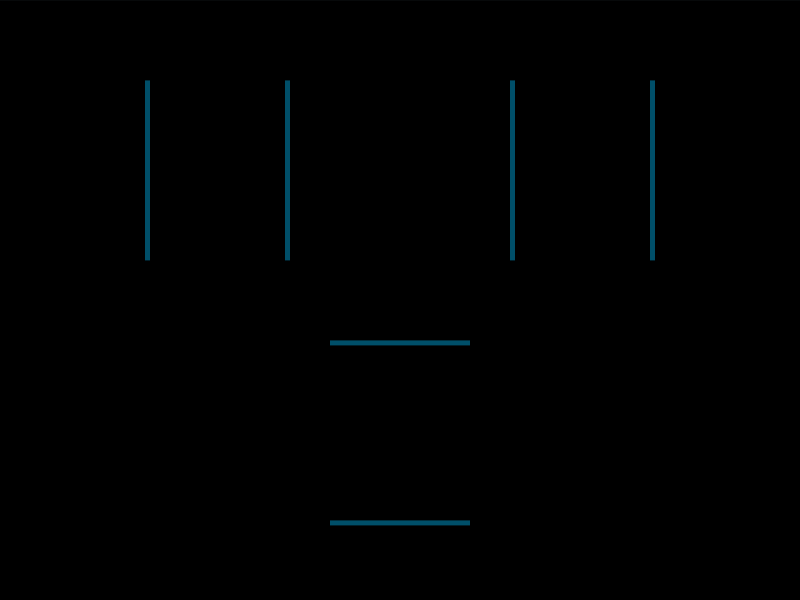
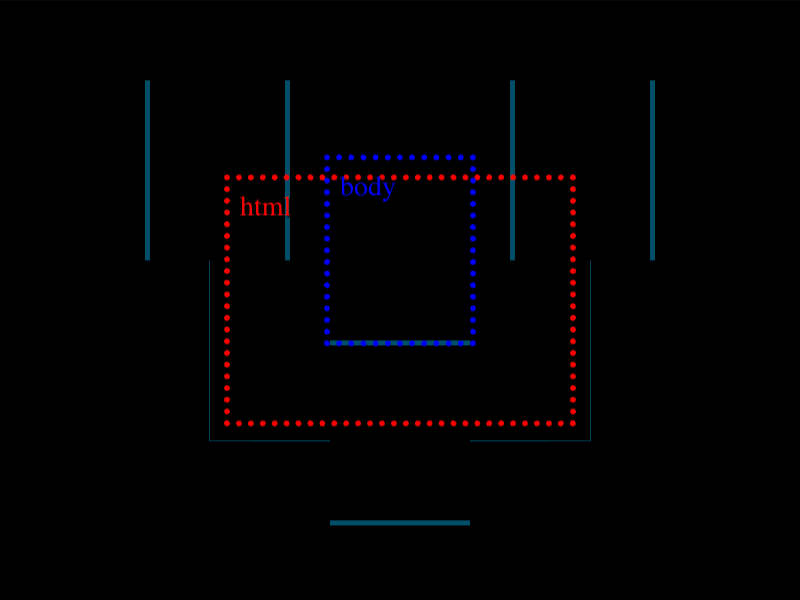
Score: 708.39, Characters: 137 (100.00% match) - CSSHub

diff --git a/Daily Targets/2026-09-09/README.md b/Daily Targets/2026-09-09/README.md
@@ -22,7 +22,7 @@ Challenge: <https://cssbattle.dev/play/hvkmKnqoppnQEVdc4GkH>
 ## Code
 
 ```html
-<style>&{background:#328FC1;border:solid;border-width:0 10 10;color:3B3F58;margin:80 105;*{margin:0 50 40;box-shadow:-5lh -5ch,5lh -5ch,0 5lh
+<style>&{background:#328fc1;box-shadow:-11q 11q,11q 11q;color:3B3F58;margin:90 115;*{margin:-10 50 40;box-shadow:-5lh -5ch,5lh -5ch,0 5lh
 ```
 
 ## Prettified code
@@ -31,12 +31,13 @@ Challenge: <https://cssbattle.dev/play/hvkmKnqoppnQEVdc4GkH>
 <style>
 & {
   background: #328fc1;
-  border: solid;
-  border-width: 0 10 10;
+  box-shadow:
+    -11Q 11Q,
+    11Q 11Q;
   color: 3B3F58;
-  margin: 80 105;
+  margin: 90 115;
   * {
-    margin: 0 50 40;
+    margin: -10 50 40;
     box-shadow:
       -5lh -5ch,
       5lh -5ch,

diff --git a/README.md b/README.md
@@ -238,7 +238,7 @@ Note - I have not yet complete all the challenges.
 <li><a href="./Daily%20Targets/2026-09-06/">Sep 6, 2026</a> (181 Characters)</li>
 <li><a href="./Daily%20Targets/2026-09-07/">Sep 7, 2026</a> (128 Characters)</li>
 <li><a href="./Daily%20Targets/2026-09-08/">Sep 8, 2026</a> (160 Characters)</li>
-<li><a href="./Daily%20Targets/2026-09-09/">Sep 9, 2026</a> (141 Characters)</li>
+<li><a href="./Daily%20Targets/2026-09-09/">Sep 9, 2026</a> (137 Characters)</li>
 </ul>
 </details>
 </li>
